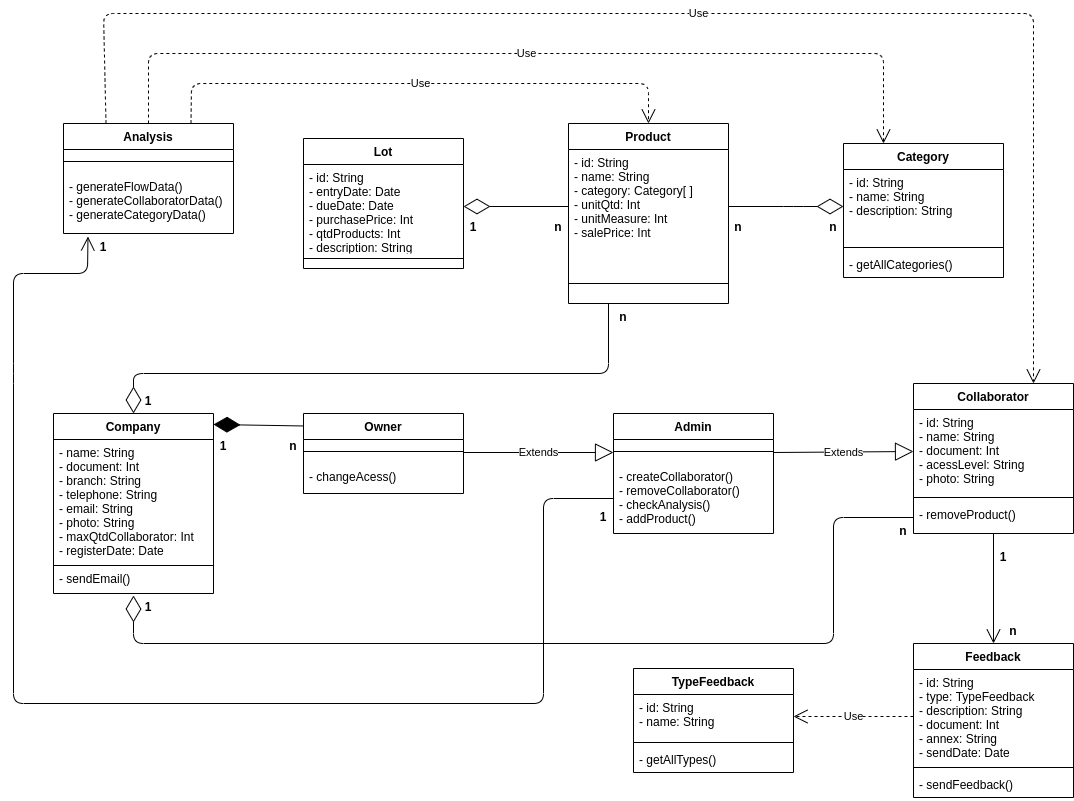
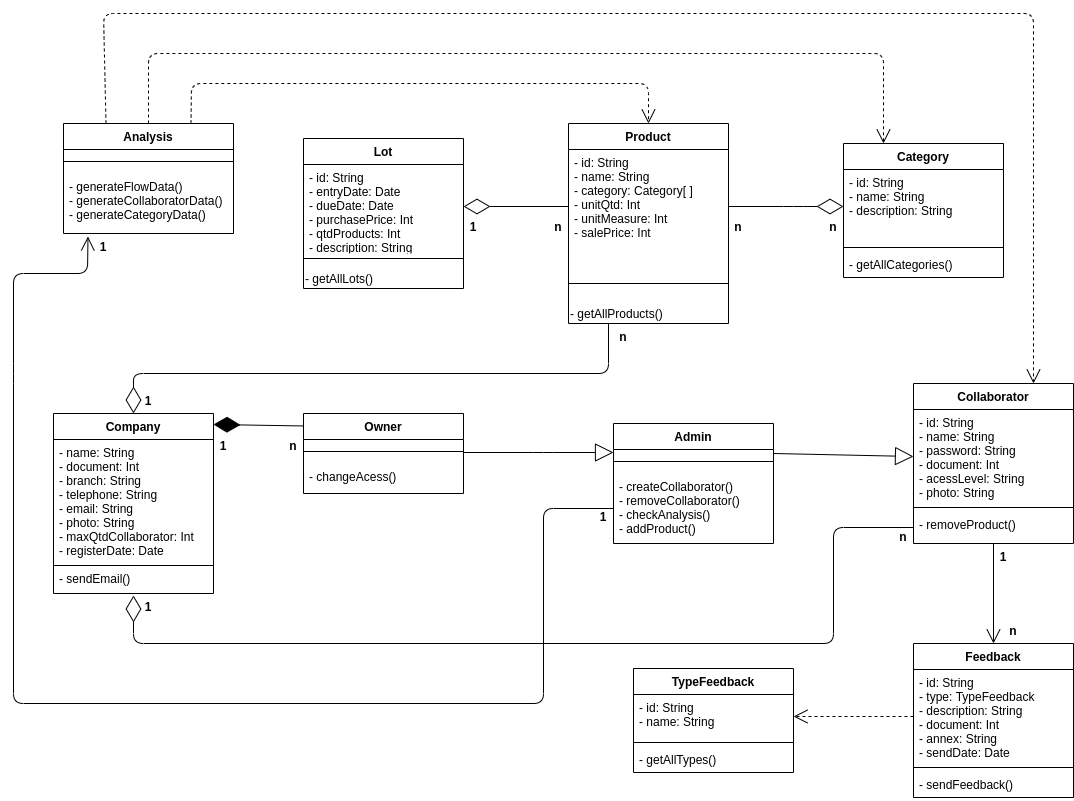
Change class and components diagrams

diff --git a/docs/Modeling/Diagrams/Componentes.md b/docs/Modeling/Diagrams/Componentes.md
@@ -9,6 +9,7 @@ O Diagrama de Componentes tem como principal objetivo mostrar o relacionamento e
 | 22/09/2020 | 1.0 | Criação dos módulos e possíveis interfaces | Gabriel Alves, Gabriel Davi, Micaella Gouviea, Pedro Igor e Sofia Patrocínio |
 | 23/09/2020 | 1.1 | Criação do diagrama de componentes | Micaella Gouveia |
 | 24/09/2020 | 1.2 | Adição da introdução, realização, arquivo PDF e referências | Micaella Gouveia |
+| 25/09/2020 | 1.3 | Atualização do diagrama de componentes conforme feedback da professora Milene | Micaella Gouveia |
 
 ## Realização
 O diagrama foi produzido pelo [Draw.io](https://app.diagrams.net/). Nele há todas os subsistemas contendo seus componentes, fazendo a relação entre os componentes com suas devidas interfaces.
@@ -16,7 +17,7 @@ O diagrama foi produzido pelo [Draw.io](https://app.diagrams.net/). Nele há tod
 ## Diagrama
 * **Diagrama de Componentes(V.0)**
 
-![diagramaComponentes](../../../assets/diagramas/DiagramaComponentes.png)
+![diagramaComponentes](../../assets/diagramas/DiagramaComponentes.png)
 <a href="https://unbarqdsw.github.io/2020.1_G12_Stock/assets/pdf/diagramas/DiagramaComponentes.pdf">Arquivo em PDF</a>
 
 ## Referências

diff --git a/docs/Modeling/Diagrams/Classes.md b/docs/Modeling/Diagrams/Classes.md
@@ -9,6 +9,7 @@ Diagramas de classes tem como principal objetivo mapear de forma clara a estrutu
 | 22/09/2020 | 1.0 | Criação das classes e seus atributos | Gabriel Alves, Gabriel Davi, Micaella Gouviea, Pedro Igor e Sofia Patrocínio |
 | 22/09/2020 | 1.1 | Criação do diagrama de classe | Micaella Gouveia |
 | 24/09/2020 | 1.2 | Adição da introdução, realização, arquivo PDF e referências | Micaella Gouveia |
+| 25/09/2020 | 1.3 | Atualização do diagrama de classes conforme feedback da professora Milene | Micaella Gouveia |
 
 ## Realização
 O diagrama foi produzido pelo [Draw.io](https://app.diagrams.net/). Nele há todas as classes do nosso sistema, contendo seus atributos e métodos, sendo ocultados métodos de Setter e Getter, além dos seus relacionamentos e cardinalidade.
